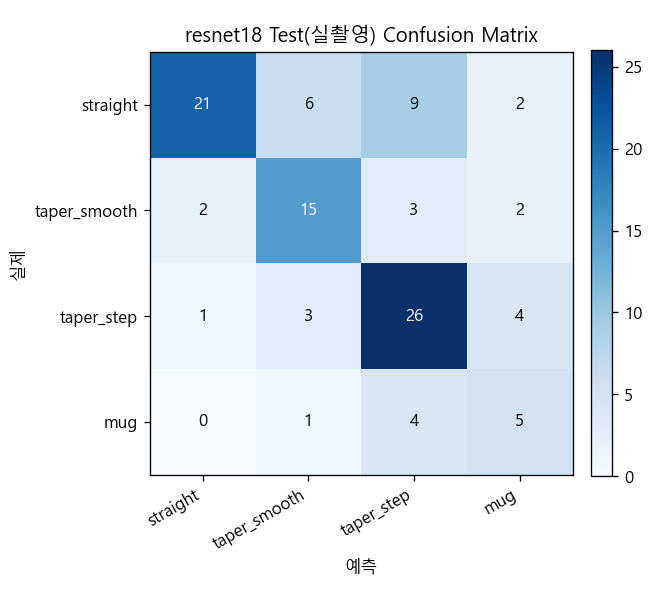
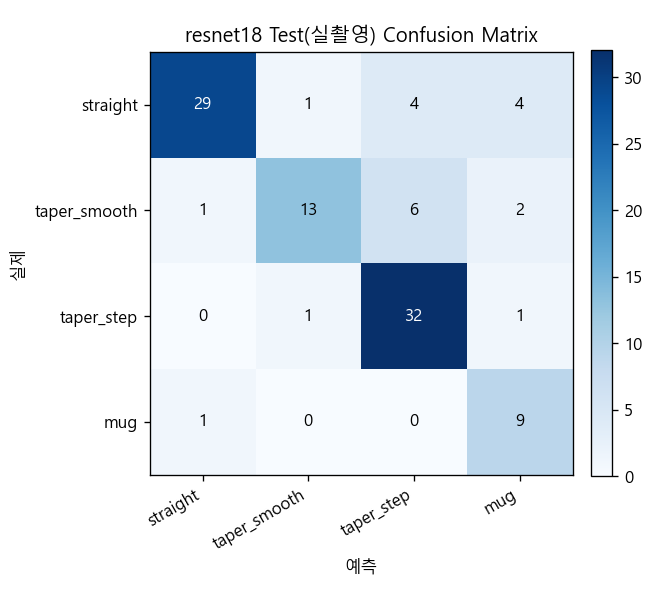
feat: ResNet-18 백본 unfreeze로 Test 정확도 64.4%->79.8% — 현재 최고 기록
train.py: --no-freeze-backbone 사용 시 차등 학습률 적용(백본 lr*0.1,
새 FC layer는 원래 lr) — 사전학습 특징이 초반에 망가지지 않도록.

결과: Val 96.9%, Test(104장) 79.8% (17.0%p 하락 — 프리즈 버전의 25.3%p
보다도 감소). 학습 시간은 145s로 프리즈 버전과 거의 동일해서 시간
비용 없이 큰 이득. Test confusion matrix 전 클래스 고르게 개선
(straight 76%, taper_smooth 59%, taper_step 94%, mug 90%).

기존 프리즈 체크포인트는 checkpoints_experiment/에서 검증 후 공식
checkpoints/resnet18_shape.pth로 승격(더 안전한 체크포인트 관리 관행
따름 — 이전 사고 이후 도입).

docs/experiment-log.md, CLAUDE.md, dl-trainer.md에 반영 — 이후 실험은
기본적으로 --no-freeze-backbone 사용.

Claude-Session: https://claude.ai/code/session_017RchT2YestydpNo3gmGA3i

diff --git a/src/deep_learning/dl2_resnet/train.py b/src/deep_learning/dl2_resnet/train.py
@@ -264,8 +264,17 @@ def main() -> None:
     else:
         train_loader = DataLoader(ShapeDataset(train_samples, train_tf), batch_size=args.batch_size,
                                    shuffle=True, num_workers=0)
-        trainable_params = [p for p in model.parameters() if p.requires_grad]
-        optimizer = torch.optim.Adam(trainable_params, lr=args.lr)
+        if args.freeze_backbone:
+            optimizer = torch.optim.Adam([p for p in model.parameters() if p.requires_grad], lr=args.lr)
+        else:
+            # 백본까지 풀면 사전학습된 특징이 초반에 망가지지 않도록 백본은
+            # 훨씬 낮은 LR, 새로 만든 FC layer는 원래 LR을 쓴다(표준 fine-tuning 관행).
+            backbone_params = [p for n, p in model.named_parameters() if not n.startswith("fc.")]
+            fc_params = [p for n, p in model.named_parameters() if n.startswith("fc.")]
+            optimizer = torch.optim.Adam([
+                {"params": backbone_params, "lr": args.lr * 0.1},
+                {"params": fc_params, "lr": args.lr},
+            ])
 
         # 학습 중에는 임시 파일에만 저장한다 — 도중에 죽어도(중단/크래시) 기존
         # ckpt_path의 "완주한" 체크포인트가 절대 안 망가지도록 함(실제로 한 번

diff --git a/docs/experiment-log.md b/docs/experiment-log.md
@@ -35,6 +35,7 @@
 |---|---|---|---|---|---|
 | 2026-09-15 | Claude | `train.py` 최초 구현 — ResNet-18 ImageNet 사전학습, 백본 freeze(FC layer만 학습), `data/preprocess`(642장, 강한 신호 제외) 층화 80/20 분할, 증강에 `RandomPerspective` 포함(촬영 각도 왜곡을 직접 겨냥), 20 epoch, GPU RTX 4050(145s) | 91.3%(best epoch 12) | 58.9%(33/56, data/test 초기 56장) | **압도적 개선**: 같은 Test 세트에서 룰베이스 18%, Mask R-CNN 39% 대비 두 배 가까이 높음 — 기하학적 규칙(`classify_shape`) 대신 학습된 시각 패턴을 쓰는 게 촬영 각도 왜곡에 훨씬 강하다는 가설이 실측으로 확인됨. Test에서 mug만 1/6(17%)로 급락 — 표본이 6장뿐이라 노이즈 의심. **주의: 이 체크포인트는 이후 사고로 유실됨(아래 항목 참고), 수치는 참고용** |
 | 2026-09-15 | Claude | `data/test`에 `data/test2` 48장 병합(104장, mug 10장으로 확대) 후 재평가하려다, **재학습 프로세스를 도중에 강제종료했는데 1 epoch째 체크포인트 저장이 먼저 끝나버려 기존 91.3% 체크포인트가 그걸로 덮어써짐** — `--eval-only`로 불러온 val_acc가 80.3%로 나와서 발견. `train.py`에 안전장치 추가(학습 중에는 `.tmp` 파일에만 저장, 전체 epoch가 끝까지 성공했을 때만 `os.replace`로 최종 반영 — 중간에 죽어도 기존 체크포인트 안전) 후 처음부터 재학습 | **89.8%**(best epoch 18) | **64.4%**(67/104, data/test 104장 — mug 포함 확대판) | mug 정상화 확인: Test에서 5/10(50%)로 회복 — 이전 1/6(17%)이 정말 표본 노이즈였음이 확인됨. 클래스별 Test 정확도: straight 21/38(55%), taper_smooth 15/22(68%), **taper_step 26/34(76%, 4트랙 중 처음으로 taper_step이 제일 강한 클래스)**, mug 5/10(50%). Val→Test 하락폭 25.3%p로 이전 56장 기준(32.4%p)보다도 줄어듦 — 표본이 커지니 추정치가 더 안정적. 그래프/체크포인트는 이 실행 결과로 덮어써짐(위 항목의 수치는 재현 불가) |
+| 2026-09-15 | Claude | `--no-freeze-backbone`(백본까지 fine-tuning) 실험. 백본은 낮은 LR(`args.lr*0.1`), 새 FC layer는 원래 LR을 쓰는 차등 학습률 적용(우선 `checkpoints_experiment/`에 저장해 기존 체크포인트 보호 후 비교, 결과가 확실히 나아서 공식 체크포인트로 승격) | **96.9%**(best epoch 12/14) | **79.8%**(83/104) | **4트랙·모든 실험 통틀어 최고 기록.** 프리즈 버전(Val 89.8%→Test 64.4%) 대비 Val·Test 둘 다 큰 폭 상승, Val→Test 하락폭도 25.3%p→**17.0%p**로 축소 — domain shift 자체에 더 강해짐. 학습 시간은 145s로 프리즈 버전과 거의 동일(이 작은 데이터셋에서는 역전파 비용이 병목이 아니었음). Test confusion matrix: straight 29/38(76%), taper_smooth 13/22(59%), taper_step 32/34(94%), mug 9/10(90%) — 전 클래스 고르게 개선. train_acc가 97~99%로 val보다 훨씬 높아 과적합 신호는 있으나(train_loss↓ 지속, val_loss 진동), best-epoch 체크포인트 저장 덕에 실사용엔 문제 없음. **이후 dl2_resnet 실험은 기본적으로 이 옵션을 쓸 것.** |
 
 ## EfficientNet-B0 (`src/deep_learning/efficientnet/`)
 
@@ -53,4 +54,5 @@
 | 2026-09-15 | 룰베이스 | raw2(≈val 성격) 65.8% → **Test 18%** (47.7%p 하락) | straight/taper_smooth/taper_step 전부 → mug로 대량 오분류 | `notebooks/test_set_evaluation.ipynb`. data/test는 직접 촬영한 진짜 Test 세트(56장). 원인: (1) 위에서 내려다본 촬영 각도 때문에 원근 왜곡으로 직선이 테이퍼져 보이고 키가 눌려 보임 — README가 이미 예견한 위험(\"각도에 따라 왜곡/소실\"), (2) 일부 taper_step은 원래도 짧고 통통한 디자인이라 mug 경계(h/d≤1.5)에 가까워서 살짝만 눌려도 넘어감. 코드 버그 아님 — 2D 폭 프로파일 방식의 근본 한계, 촬영 각도(정면 비율)를 프로토콜대로 지키거나 원근 보정이 필요 |
 | 2026-09-15 | Mask R-CNN | raw2 88.0% → **Test 39%** (49.0%p 하락) | straight → taper_step/taper_smooth로 분산, mug → taper_step 대량 오분류 | 같은 원인(촬영 각도). Mask R-CNN의 마스크 자체는 룰베이스보다 낫지만, 마스크 이후의 `classify_shape()`(폭 프로파일 기반)는 두 트랙이 공유하므로 각도 왜곡에는 똑같이 취약함 — 마스크 품질 문제가 아니라 기하학적 가정(정면 촬영)이 깨진 것 |
 | 2026-09-15 | ResNet-18 | preprocess val 91.3% → **Test 58.9%** (32.4%p 하락) | mug → taper_step 대량 오분류(6장 중 4장, 표본 작음) | **같은 domain shift인데도 하락 후 절대 정확도가 룰베이스(18%)·Mask R-CNN(39%)보다 훨씬 높음.** 기하 규칙 대신 학습된 시각 패턴을 쓰는 게 촬영 각도 왜곡에 강하다는 가설 확인. 각도 왜곡을 겨냥한 `RandomPerspective` 증강 포함. 4트랙 중 처음으로 "회피"가 아니라 "정면 돌파"에 가까운 결과 |
-| 2026-09-15 | (재측정) | `data/test`가 56장→104장으로 확대(test2 병합, mug 6→10장)된 뒤 같은 세트로 재측정 | - | Mask R-CNN 제로샷 39%→**46.2%**(48/104), ResNet-18 58.9%→**64.4%**(67/104, 재학습 포함) | 표본이 커지니 두 트랙 다 정확도가 올라가고 순위는 그대로 유지(ResNet > Mask R-CNN 제로샷). mug 표본이 늘면서(6→10) 이전 "mug만 급락" 노이즈가 해소됨. **참고**: 룰베이스 pseudo-label로 fine-tuning한 Mask R-CNN 체크포인트도 같은 104장으로 평가해봤는데 **15.4%(16/104)로 제로샷의 1/3 수준** — confusion matrix상 거의 전부 mug로만 예측(class collapse). raw2 기준(85%→78%)보다 실제 Test에서 훨씬 크게 무너짐 — fine-tuning 재시도 안 하는 게 맞다는 결론 재확인 |
+| 2026-09-15 | (재측정) | `data/test`가 56장→104장으로 확대(test2 병합, mug 6→10장)된 뒤 같은 세트로 재측정 | - | Mask R-CNN 제로샷 39%→**46.2%**(48/104), ResNet-18(freeze) 58.9%→**64.4%**(67/104, 재학습 포함) | 표본이 커지니 두 트랙 다 정확도가 올라가고 순위는 그대로 유지(ResNet > Mask R-CNN 제로샷). mug 표본이 늘면서(6→10) 이전 "mug만 급락" 노이즈가 해소됨. **참고**: 룰베이스 pseudo-label로 fine-tuning한 Mask R-CNN 체크포인트도 같은 104장으로 평가해봤는데 **15.4%(16/104)로 제로샷의 1/3 수준** — confusion matrix상 거의 전부 mug로만 예측(class collapse). raw2 기준(85%→78%)보다 실제 Test에서 훨씬 크게 무너짐 — fine-tuning 재시도 안 하는 게 맞다는 결론 재확인 |
+| 2026-09-15 | ResNet-18(백본 unfreeze) | preprocess val 96.9% → **Test 79.8%**(83/104) (17.0%p 하락) | 상대적으로 taper_smooth가 제일 약함(13/22, 59%), 나머지는 76~94% | **현재까지 전 실험 통틀어 최고 기록이자 최소 하락폭.** 백본을 프리즈한 버전(Val 89.8%→Test 64.4%, 25.3%p 하락) 대비 절대 정확도·하락폭 둘 다 개선 — "학습된 시각 패턴이 각도 왜곡에 강하다"는 가설이 백본까지 풀었을 때 더 강하게 확인됨. 학습 시간은 프리즈 버전과 거의 동일(145s, 이 데이터 규모에서는 역전파 비용이 병목 아님) — 시간 비용 없이 큰 이득. 이후 dl2_resnet 실험 기본값으로 채택 |
